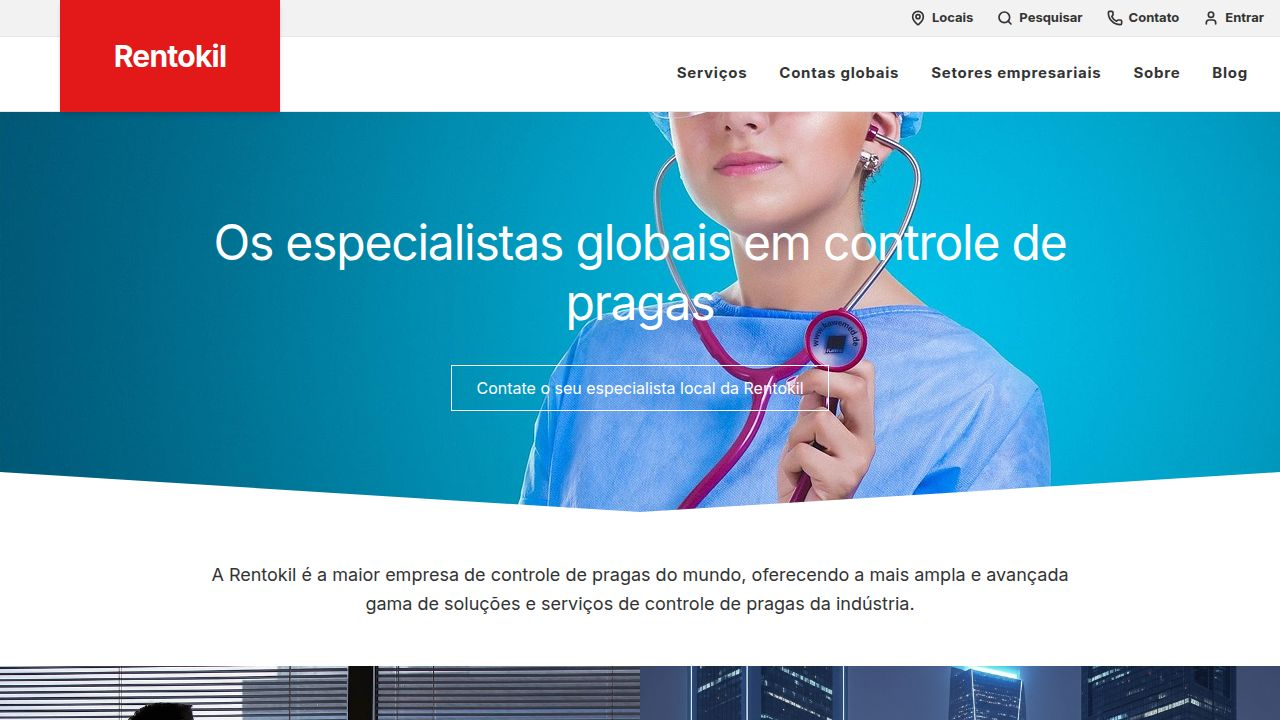
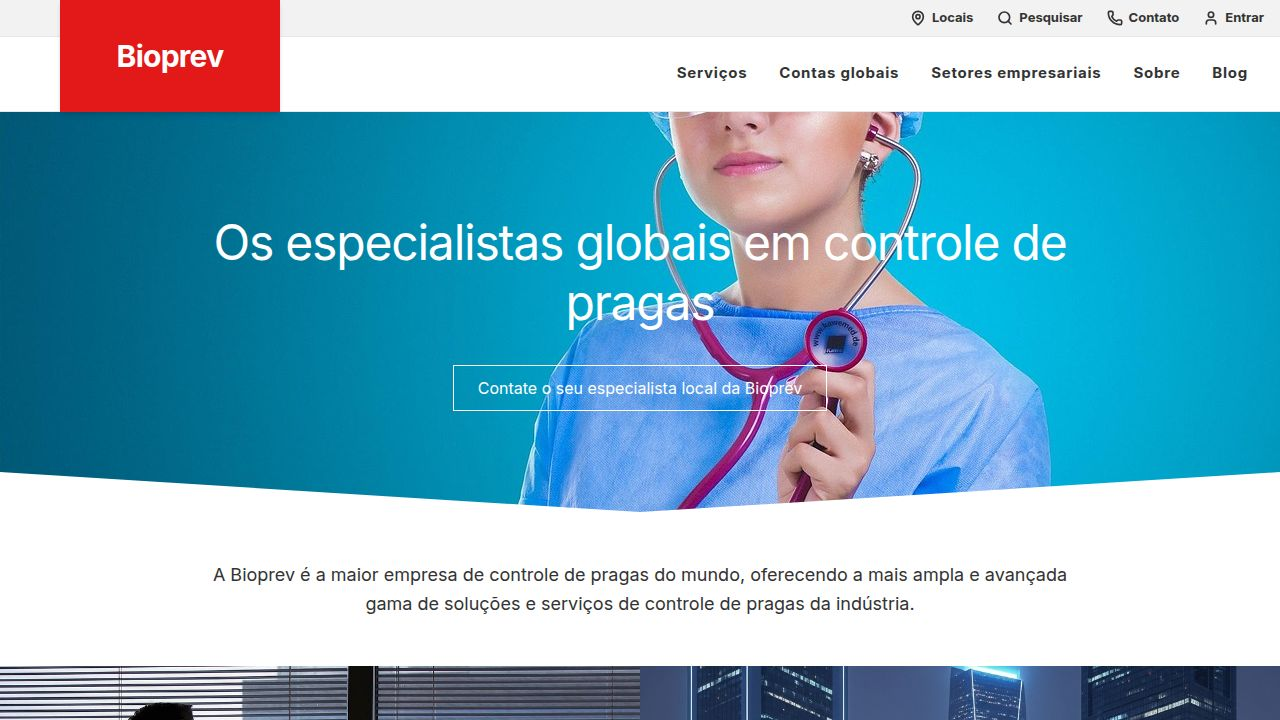
Add contact phone numbers and a call now button
Update header and contact page to include phone numbers and a clickable "Call now" button.

Replit-Commit-Author: Agent
Replit-Commit-Session-Id: 88cfb2f1-3cfe-4bd4-a522-1f3af8561d95
Replit-Commit-Checkpoint-Type: full_checkpoint
Replit-Commit-Event-Id: 1dece1da-a5d7-4237-9fd3-d1930530afec
Replit-Commit-Screenshot-Url: https://storage.googleapis.com/screenshot-production-us-central1/d314b054-b12a-42b4-be4f-bdd75e03a28c/88cfb2f1-3cfe-4bd4-a522-1f3af8561d95/G36tuSY
Replit-Helium-Checkpoint-Created: true

Changed region(s): [[0.1562, 0.7944, 0.8438, 0.825], [0.3438, 0.5194, 0.625, 0.55], [0.0625, 0.0611, 0.1875, 0.1222]]

diff --git a/client/src/components/layout/Header.tsx b/client/src/components/layout/Header.tsx
@@ -93,11 +93,15 @@ export default function Header() {
             className="fixed top-0 left-0 w-full bg-[#001d3d] z-[100] h-[60px] flex items-center shadow-lg"
           >
             <div className="container mx-auto px-4 flex items-center justify-center">
-              <div className="flex items-center space-x-12">
-                <span className="text-white font-bold text-xl tracking-tight">0808 273 1010</span>
-                <button className="bg-[#0077c0] text-white px-8 py-2 font-bold text-sm h-[60px] flex items-center transition-colors hover:bg-[#005fa3]">
-                  Entre em contato
-                </button>
+              <div className="flex items-center space-x-8">
+                <div className="text-white font-bold text-[15px] tracking-tight">
+                  <a href="tel:+244947059109" className="hover:underline">+244 947 059 109</a>
+                  <span className="mx-2">|</span>
+                  <a href="tel:+244928737888" className="hover:underline">+244 928 737 888</a>
+                </div>
+                <a href="tel:+244947059109" className="bg-[#0077c0] text-white px-8 py-2 font-bold text-sm h-[60px] flex items-center transition-colors hover:bg-[#005fa3]">
+                  Ligar agora
+                </a>
                 <a href="#" className="text-white font-bold text-sm hover:underline">
                   Solicite uma chamada
                 </a>
@@ -116,7 +120,7 @@ export default function Header() {
 
       {/* Top utility bar - gray background - Full width wrapper */}
       <div className="w-full bg-[#f2f2f2] border-b border-gray-200">
-        <div className="container mx-auto px-4 relative">
+        <div className="container mx-auto px-4 relative flex items-center justify-between">
           {/* Logo - Red Background Block - Positioned to overlap both bars and touch Hero */}
           <Link href="/">
             <div 
@@ -126,6 +130,13 @@ export default function Header() {
               <span className="text-white font-bold text-3xl tracking-tight transition-transform group-hover:scale-105" data-testid="text-logo">Bioprev</span>
             </div>
           </Link>
+
+          {/* Contact Numbers on Top Bar */}
+          <div className="flex items-center ml-auto mr-12 text-[#333333] font-bold text-sm tracking-tight hidden md:flex">
+            <a href="tel:+244947059109" className="hover:text-[#e31818] transition-colors">+244 947 059 109</a>
+            <span className="mx-2 text-gray-400">|</span>
+            <a href="tel:+244928737888" className="hover:text-[#e31818] transition-colors">+244 928 737 888</a>
+          </div>
 
           <div className="flex justify-end py-2 text-[13px] font-bold text-[#333333]">
             <div className="flex items-center space-x-6">

diff --git a/client/src/pages/Contact.tsx b/client/src/pages/Contact.tsx
@@ -61,9 +61,25 @@ export default function Contact() {
             <p className="text-gray-700 mb-4">
               Precisa de ajuda com pragas? Diga-nos o que está a acontecer e iremos conectá-lo ao especialista certo.
             </p>
-            <p className="text-gray-600 text-sm">
+            <p className="text-gray-600 text-sm mb-8">
               Leia a nossa <a href="#" className="text-[#0077c0] hover:underline">política de privacidade</a> para entender como usamos seus dados.
             </p>
+
+            <div className="bg-gray-50 p-6 border-l-4 border-[#e31818] mb-8 shadow-sm">
+              <h3 className="text-lg font-bold text-gray-900 mb-2">Ligue-nos diretamente</h3>
+              <p className="text-gray-700 mb-3">
+                Pode entrar em contato connosco através dos números:
+              </p>
+              <div className="font-bold text-xl text-[#0077c0] flex flex-wrap gap-2 items-center">
+                <a href="tel:+244947059109" className="hover:underline flex items-center">
+                  📞 +244 947 059 109
+                </a>
+                <span className="text-gray-300 hidden sm:inline">|</span>
+                <a href="tel:+244928737888" className="hover:underline flex items-center">
+                  📞 +244 928 737 888
+                </a>
+              </div>
+            </div>
           </div>
 
           <form onSubmit={handleSubmit} className="space-y-8">
